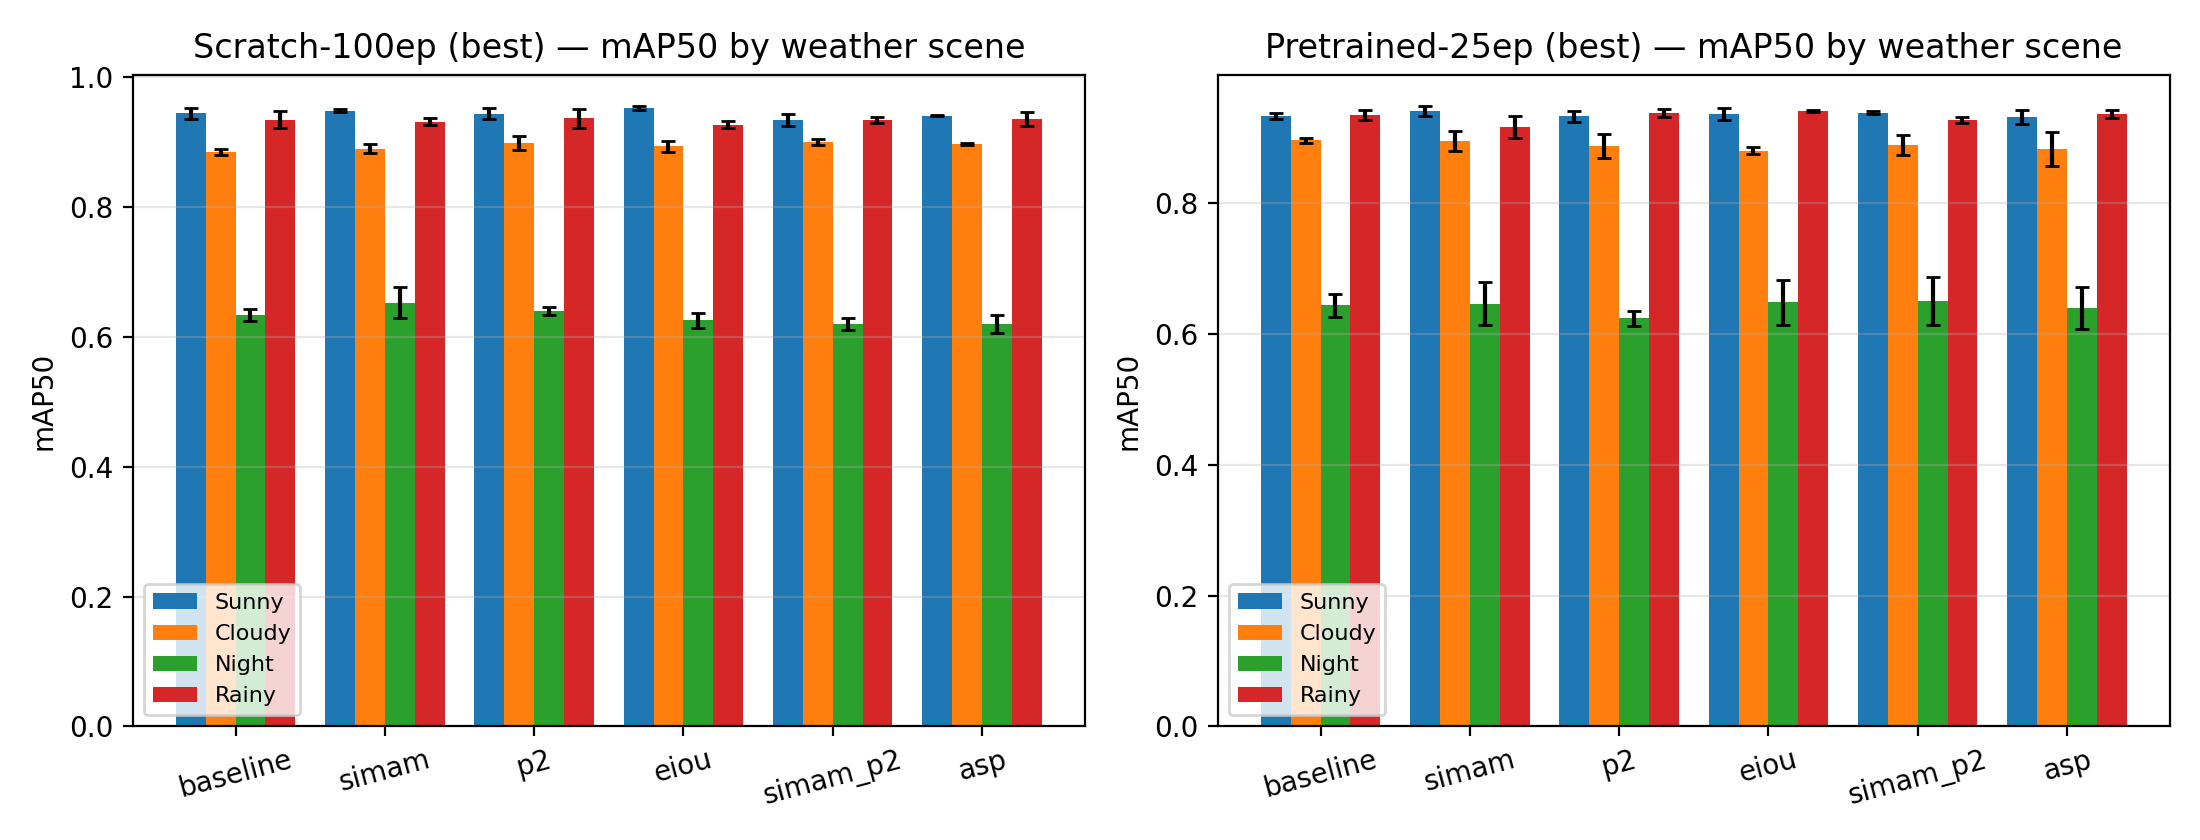
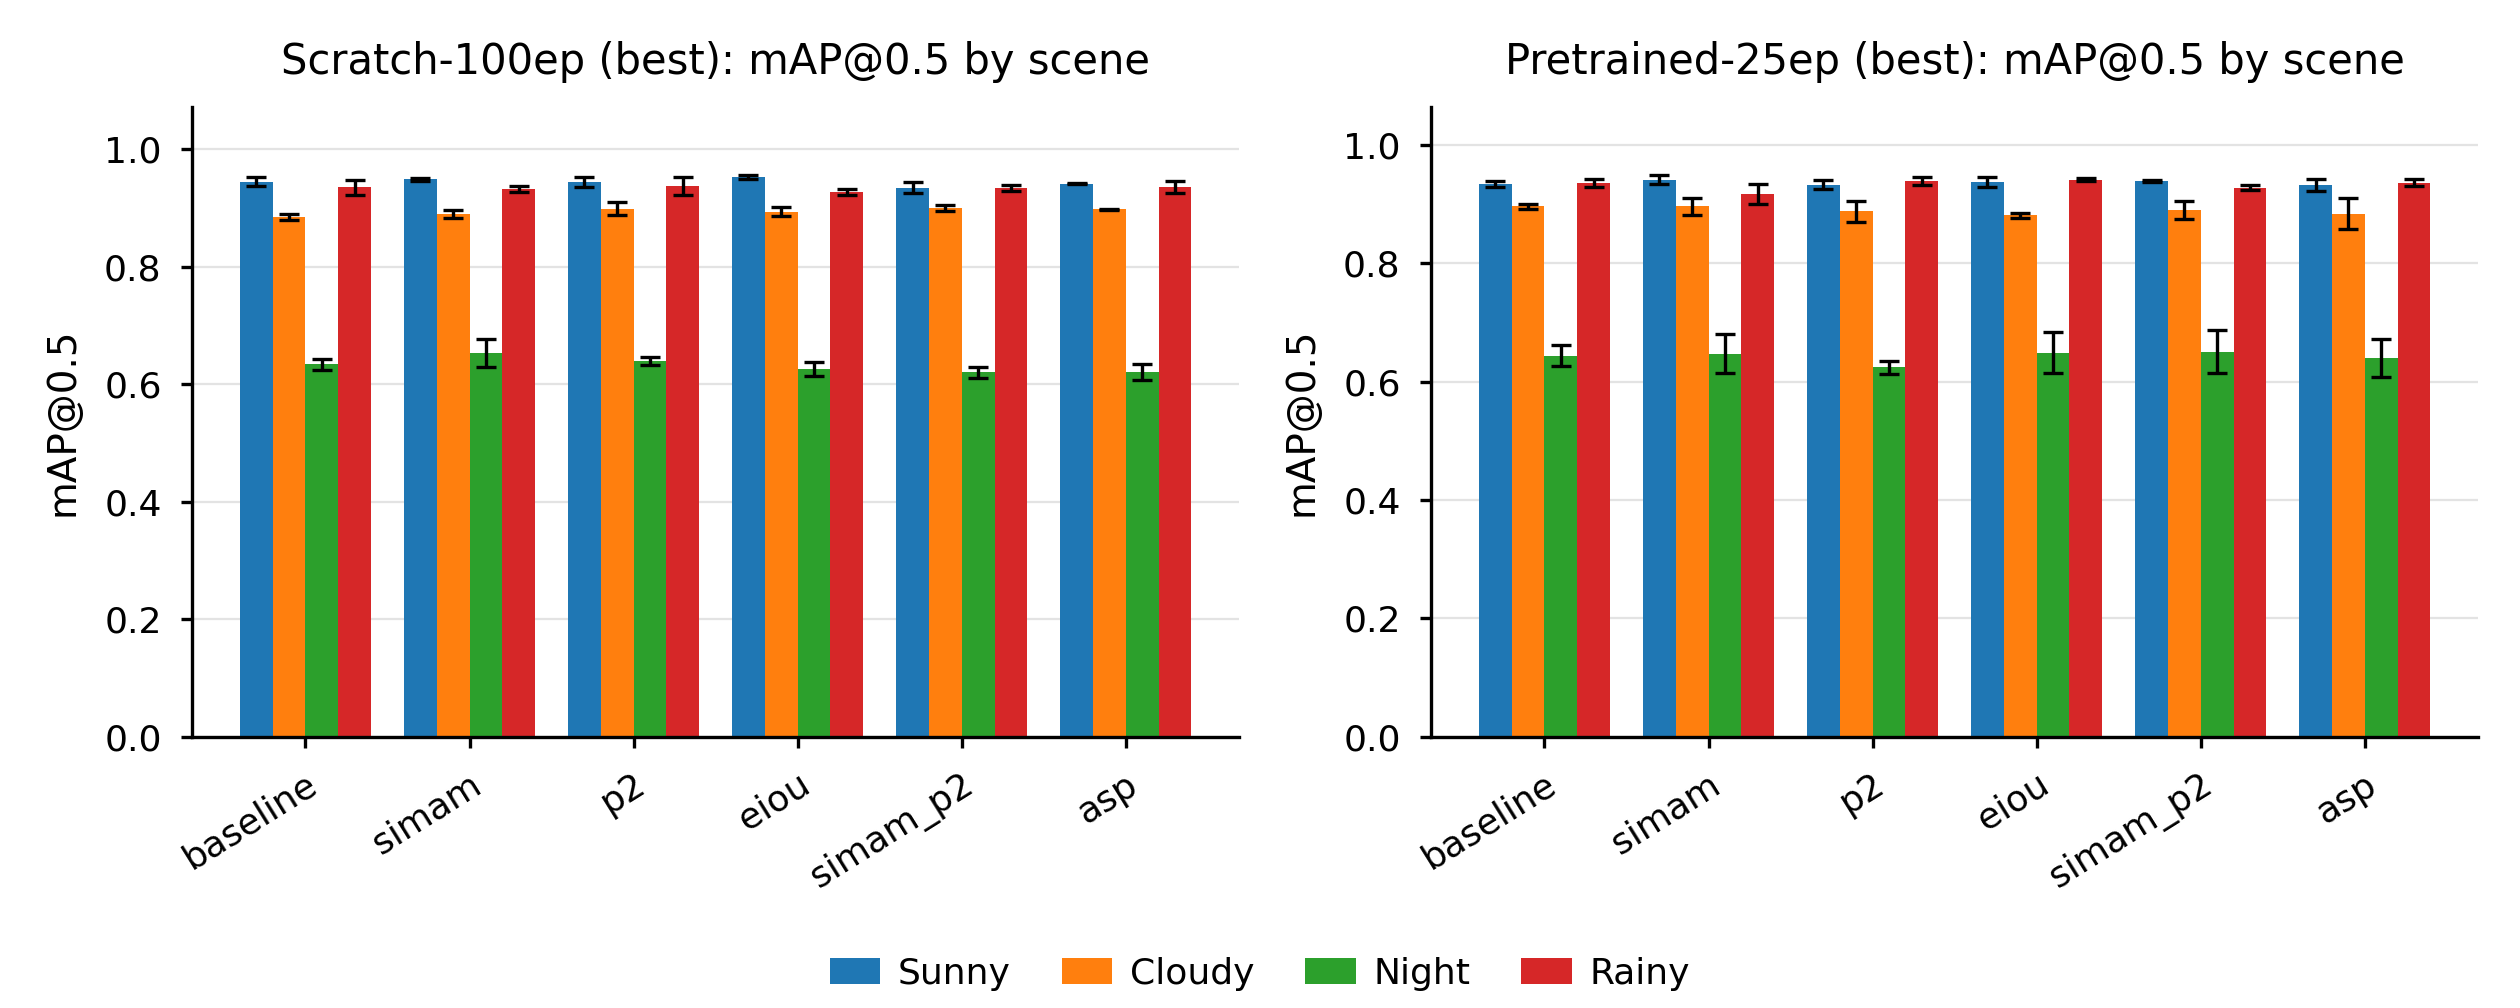
Regenerate the figures at their true printed size so the type is legible
The figures were produced at 11-13 inches wide and then scaled to the 160 mm text width, a factor of about 0.5, so 10 pt labels reached the page at roughly 5 pt. They are now generated directly at 6.3 in (160 mm) with --fig_width, which makes the 7-8 pt type on the image exactly the type size on the page. The three figures are also now consistent: a shared legend per figure instead of a per-panel one, 32-degree x labels, light gridlines, and no top/right spines.

run scripts/make_paper_figures.py with a Python that has a working matplotlib: the anaconda base environment on this machine has a broken matplotlib 3.9.2 build (compiled against NumPy 1.x, refuses to load under NumPy 2.3.5), whereas envs/yolo_gpu (matplotlib 3.10.9, NumPy 2.2.6) works.

Note for future edits: verify tick labels by measuring ink below the axis, not by eye on a downscaled preview -- the scene figure looked as if its labels were missing when they were present all along.

diff --git a/scripts/make_paper_figures.py b/scripts/make_paper_figures.py
@@ -1,5 +1,10 @@
 """从本地评估 CSV 生成论文插图（完全离线，不依赖服务器）。
 
+**关于字号**：IEEE/Springer 双栏模板的正文宽度是 160mm ≈ 6.3in。如果按 11--13in 出图
+再缩到 6.3in 排进版面，缩放系数只有 0.5 左右，图上 10pt 的字到版面上只剩 5pt，几乎无法阅读。
+因此本脚本默认**按最终物理尺寸出图**（fig_width=6.3in），图上的 7--8pt 就是版面真实的 7--8pt。
+如需给其他宽度排版，用 --fig_width 传入目标英寸宽度即可。
+
 输入（都是评估脚本产出的 CSV，本地即可复现）：
     --scratch_scene  runs/eval/summary_all.csv            从零训练 best.pt 的整体+分场景
     --scratch_size   runs/eval/ap_by_size_all.csv         从零训练 best.pt 的分尺寸
@@ -12,8 +17,9 @@
     fig2_by_size.png  AP_small / AP_medium / AP_large：从零 vs 预训练
     fig3_scene.png    分场景 mAP50：四个场景 × 六变体（预训练 best）
 
-用法:
+用法（任意装有 matplotlib 的 Python 均可）:
     python scripts/make_paper_figures.py
+    python scripts/make_paper_figures.py --fig_width 3.15   # 单栏排版
 """
 
 from __future__ import annotations
@@ -33,6 +39,8 @@ ORDER = ["baseline", "simam", "p2", "eiou", "simam_p2", "asp"]
 SCENES = ["sunny", "cloudy", "night", "rainy"]
 SCENE_CN = {"sunny": "Sunny", "cloudy": "Cloudy", "night": "Night", "rainy": "Rainy"}
 
+BASE_FONT = 7.0          # 版面上的真实磅值：图按 1:1 尺寸生成，所见即所得
+
 
 def parse_args() -> argparse.Namespace:
     p = argparse.ArgumentParser(description="生成论文插图（离线）")
@@ -43,7 +51,9 @@ def parse_args() -> argparse.Namespace:
     p.add_argument("--pre_size", default="../runs/eval_server/ap_by_size_pre_best.csv")
     p.add_argument("--prefix", default="pre_", help="预训练运行名前缀")
     p.add_argument("--out_dir", default="docs/figures")
-    p.add_argument("--dpi", type=int, default=200)
+    p.add_argument("--fig_width", type=float, default=6.3,
+                   help="图片物理宽度（英寸）。160mm 双栏版面用 6.3，单栏用 3.15")
+    p.add_argument("--dpi", type=int, default=400)
     return p.parse_args()
 
 
@@ -77,21 +87,57 @@ def stat(groups: dict[str, list[dict]], var: str, key: str) -> tuple[float, floa
     return st.mean(vals), (st.stdev(vals) if len(vals) > 1 else 0.0)
 
 
+def apply_style(plt) -> None:
+    """版面级字号：7pt 左右是双栏论文插图的常见下限，再小就难读。"""
+    plt.rcParams.update({
+        "font.size": BASE_FONT,
+        "font.family": "sans-serif",
+        "axes.titlesize": BASE_FONT + 0.5,
+        "axes.labelsize": BASE_FONT,
+        "xtick.labelsize": BASE_FONT - 0.5,
+        "ytick.labelsize": BASE_FONT - 0.5,
+        "legend.fontsize": BASE_FONT - 0.5,
+        "figure.titlesize": BASE_FONT + 1.0,
+        "axes.linewidth": 0.6,
+        "xtick.major.width": 0.6,
+        "ytick.major.width": 0.6,
+        "xtick.major.size": 2.0,
+        "ytick.major.size": 2.0,
+        "grid.linewidth": 0.4,
+    })
+
+
 def grouped_bars(ax, series: list[tuple[str, dict, str]], title: str, ylabel: str) -> None:
     import numpy as np
     n = len(ORDER)
     w = 0.8 / max(len(series), 1)
     x = np.arange(n)
+    top = 0.0
     for i, (label, groups, key) in enumerate(series):
         means = [stat(groups, v, key)[0] for v in ORDER]
         stds = [stat(groups, v, key)[1] for v in ORDER]
-        ax.bar(x + i * w - 0.4 + w / 2, means, w, yerr=stds, capsize=2.5, label=label)
+        ax.bar(x + i * w - 0.4 + w / 2, means, w, yerr=stds, capsize=1.8,
+               error_kw={"linewidth": 0.6, "capthick": 0.6}, label=label)
+        top = max(top, max((m + s) for m, s in zip(means, stds)) if means else 0.0)
     ax.set_xticks(x)
-    ax.set_xticklabels(ORDER, rotation=15)
+    ax.set_xticklabels(ORDER, rotation=32, ha="right", rotation_mode="anchor")
     ax.set_ylabel(ylabel)
     ax.set_title(title)
-    ax.grid(axis="y", alpha=0.3)
-    ax.legend(fontsize=8)
+    ax.set_ylim(0, top * 1.12 if top > 0 else 1.0)
+    ax.grid(axis="y", alpha=0.35)
+    ax.set_axisbelow(True)
+    for side in ("top", "right"):
+        ax.spines[side].set_visible(False)
+
+
+def shared_legend(fig, axes) -> None:
+    """整图共用一个图例，避免图例压住柱子、也省出绘图区高度。"""
+    handles, labels = axes[0].get_legend_handles_labels()
+    if not handles:
+        return
+    fig.legend(handles, labels, loc="lower center", ncol=min(len(labels), 4),
+               frameon=False, handlelength=1.4, columnspacing=1.4,
+               handletextpad=0.5, bbox_to_anchor=(0.5, -0.015))
 
 
 def main() -> None:
@@ -104,6 +150,10 @@ def main() -> None:
         print("[错误] 缺少 matplotlib，无法生成插图")
         return
 
+    apply_style(plt)
+    fig_w = args.fig_width
+    fig_h = fig_w / 2.5          # 宽高比 2.5，与版面观感一致
+
     base = PROJECT_ROOT
     s_scene = load((base / args.scratch_scene).resolve())
     s_size = load((base / args.scratch_size).resolve())
@@ -113,21 +163,22 @@ def main() -> None:
 
     out_dir = (base / args.out_dir).resolve()
     out_dir.mkdir(parents=True, exist_ok=True)
-    print(f"[输出目录] {out_dir}")
+    print(f"[输出目录] {out_dir}  (图片宽度 {fig_w}in @ {args.dpi}dpi)")
 
     # ---- 图 1：整体 mAP50 / mAP50-95 ----
     if s_scene and p_scene:
-        fig, axes = plt.subplots(1, 2, figsize=(11, 4.2))
-        series50 = [("Scratch-100ep (best)", s_scene, "overall_mAP50"),
-                    ("Pretrained-25ep (best)", p_scene, "overall_mAP50"),
-                    ("Pretrained-25ep (last)", p_last, "overall_mAP50")]
-        series95 = [("Scratch-100ep (best)", s_scene, "overall_mAP50-95"),
-                    ("Pretrained-25ep (best)", p_scene, "overall_mAP50-95"),
-                    ("Pretrained-25ep (last)", p_last, "overall_mAP50-95")]
-        grouped_bars(axes[0], series50, "Overall mAP@0.5", "mAP50")
-        grouped_bars(axes[1], series95, "Overall mAP@[0.5:0.95]", "mAP50-95")
-        fig.suptitle("UA-DETRAC: variant comparison (mean ± std over 3 seeds)", fontsize=10)
-        fig.tight_layout()
+        fig, axes = plt.subplots(1, 2, figsize=(fig_w, fig_h))
+        grouped_bars(axes[0], [("Scratch-100ep (best)", s_scene, "overall_mAP50"),
+                               ("Pretrained-25ep (best)", p_scene, "overall_mAP50"),
+                               ("Pretrained-25ep (last)", p_last, "overall_mAP50")],
+                     "Overall mAP@0.5", "mAP")
+        grouped_bars(axes[1], [("Scratch-100ep (best)", s_scene, "overall_mAP50-95"),
+                               ("Pretrained-25ep (best)", p_scene, "overall_mAP50-95"),
+                               ("Pretrained-25ep (last)", p_last, "overall_mAP50-95")],
+                     "Overall mAP@[0.5:0.95]", "mAP")
+        fig.suptitle("UA-DETRAC: variant comparison (mean $\\pm$ std over 3 seeds)")
+        shared_legend(fig, axes)
+        fig.tight_layout(rect=(0, 0.07, 1, 0.94))
         p = out_dir / "fig1_overall.png"
         fig.savefig(p, dpi=args.dpi)
         plt.close(fig)
@@ -135,13 +186,15 @@ def main() -> None:
 
     # ---- 图 2：分目标尺寸 ----
     if s_size and p_size:
-        fig, axes = plt.subplots(1, 3, figsize=(13, 4.0))
+        fig, axes = plt.subplots(1, 3, figsize=(fig_w, fig_h))
         for ax, key, title in zip(axes, ("AP_small", "AP_medium", "AP_large"),
-                                  ("AP small (<32²)", "AP medium (32²~96²)", "AP large (>96²)")):
+                                  ("AP small (<32$^2$)", "AP medium (32$^2$--96$^2$)",
+                                   "AP large (>96$^2$)")):
             grouped_bars(ax, [("Scratch-100ep (best)", s_size, key),
-                              ("Pretrained-25ep (best)", p_size, key)], title, key)
-        fig.suptitle("COCO-style AP by object size (mean ± std over 3 seeds)", fontsize=10)
-        fig.tight_layout()
+                              ("Pretrained-25ep (best)", p_size, key)], title, "AP")
+        fig.suptitle("COCO-style AP by object size (mean $\\pm$ std over 3 seeds)")
+        shared_legend(fig, axes)
+        fig.tight_layout(rect=(0, 0.08, 1, 0.92))
         p = out_dir / "fig2_by_size.png"
         fig.savefig(p, dpi=args.dpi)
         plt.close(fig)
@@ -149,12 +202,13 @@ def main() -> None:
 
     # ---- 图 3：分场景 mAP50 ----
     if s_scene and p_scene:
-        fig, axes = plt.subplots(1, 2, figsize=(11, 4.2))
+        fig, axes = plt.subplots(1, 2, figsize=(fig_w, fig_h))
         for ax, (groups, tag) in zip(axes, ((s_scene, "Scratch-100ep (best)"),
                                             (p_scene, "Pretrained-25ep (best)"))):
             series = [(SCENE_CN[s], groups, f"{s}_mAP50") for s in SCENES]
-            grouped_bars(ax, series, f"{tag} — mAP50 by weather scene", "mAP50")
-        fig.tight_layout()
+            grouped_bars(ax, series, f"{tag}: mAP@0.5 by scene", "mAP@0.5")
+        shared_legend(fig, axes)
+        fig.tight_layout(rect=(0, 0.07, 1, 1))
         p = out_dir / "fig3_scene.png"
         fig.savefig(p, dpi=args.dpi)
         plt.close(fig)
